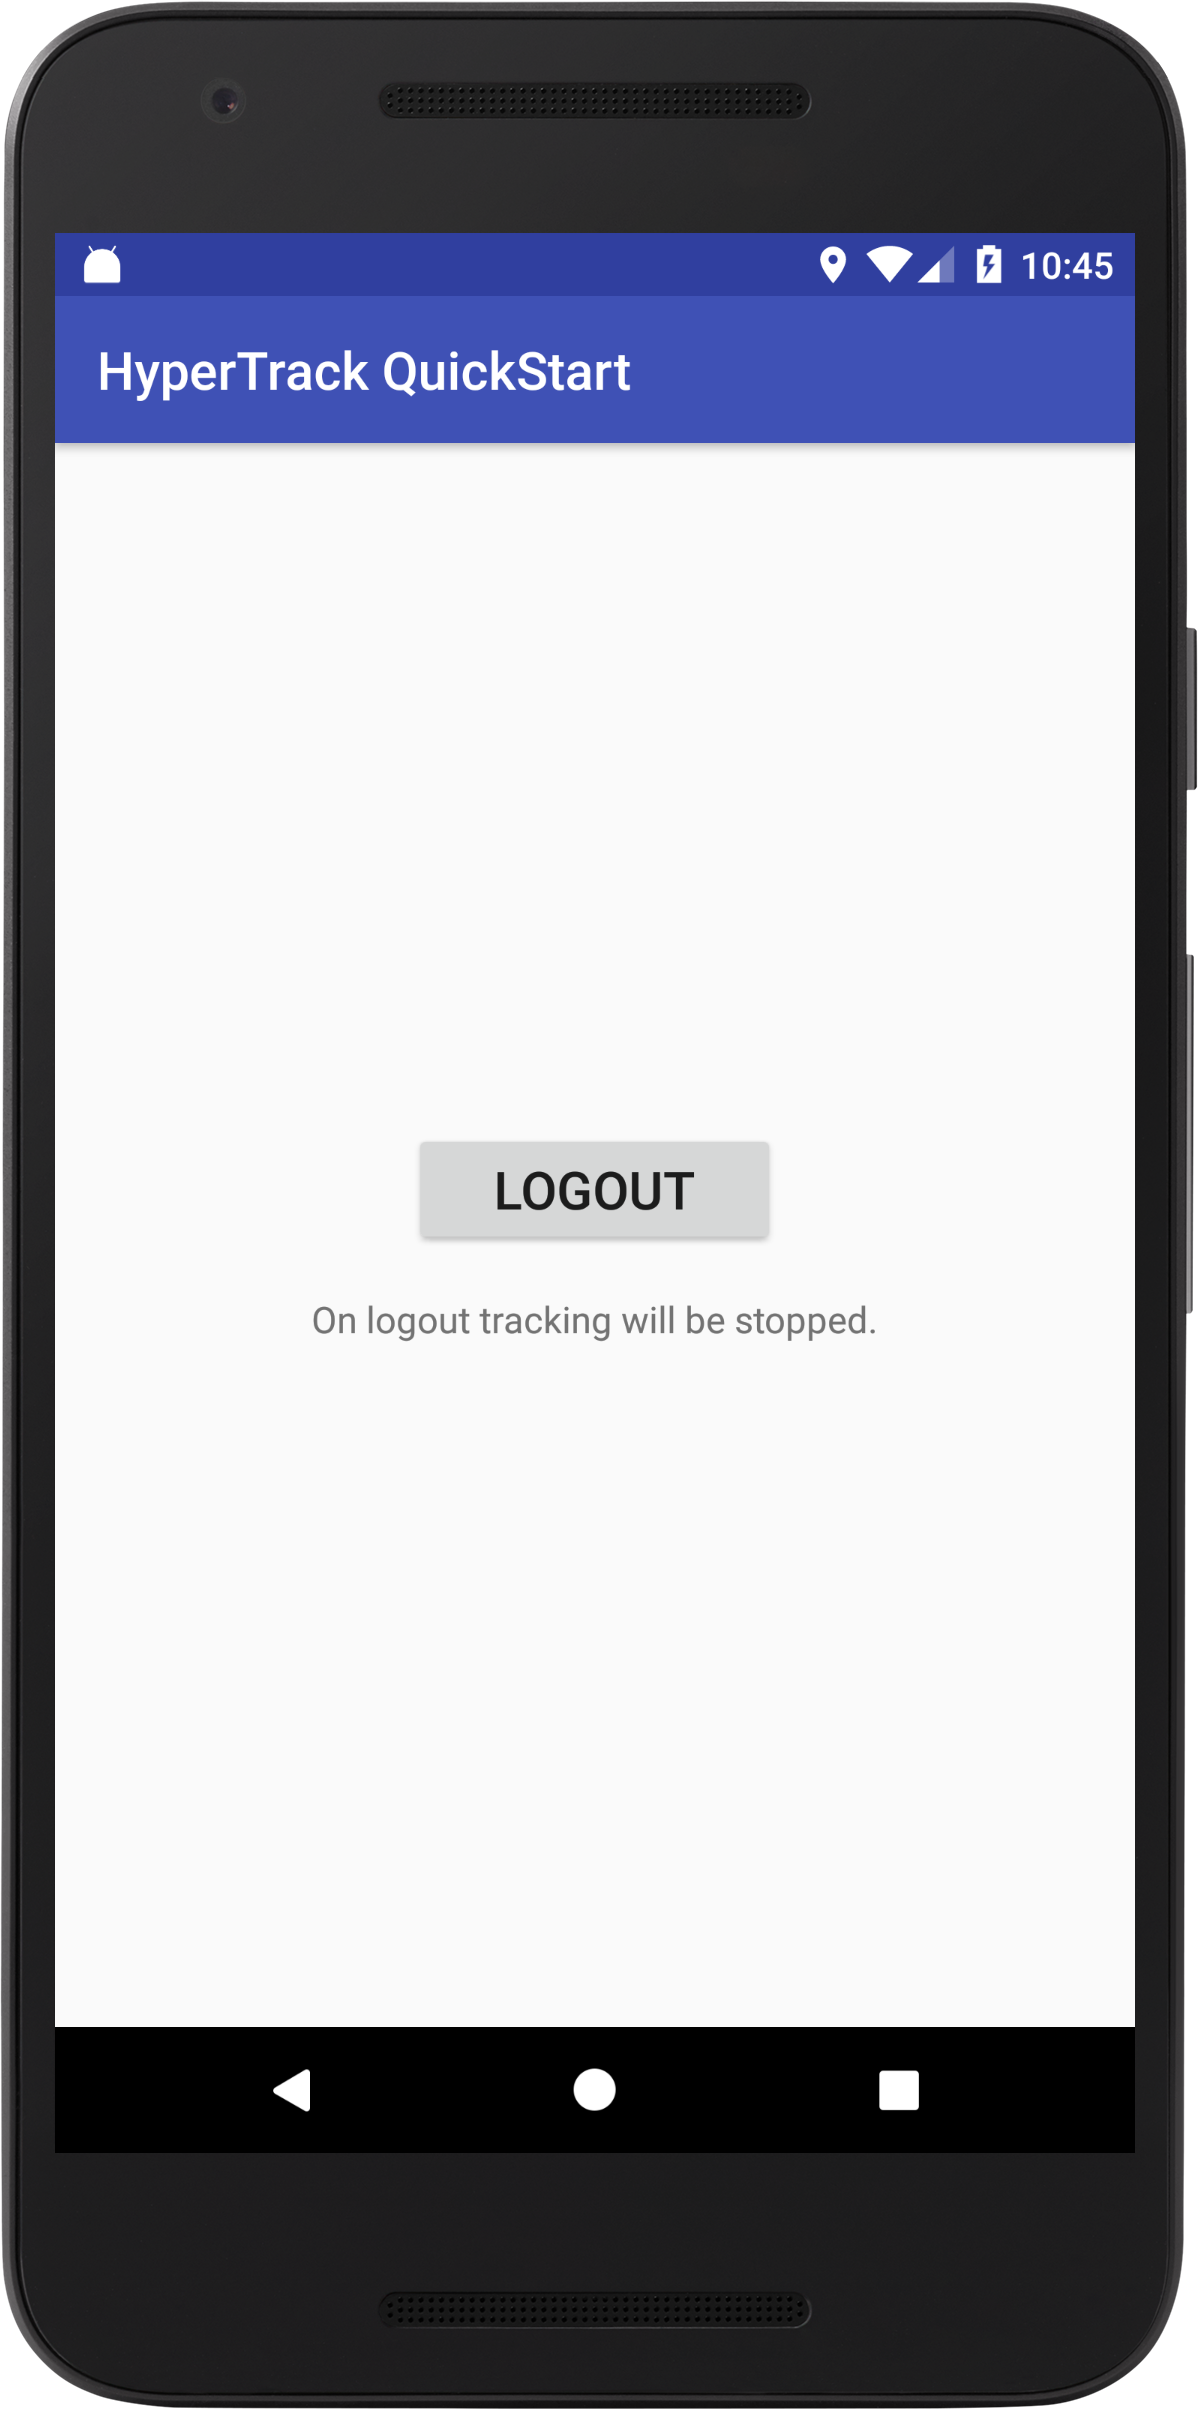
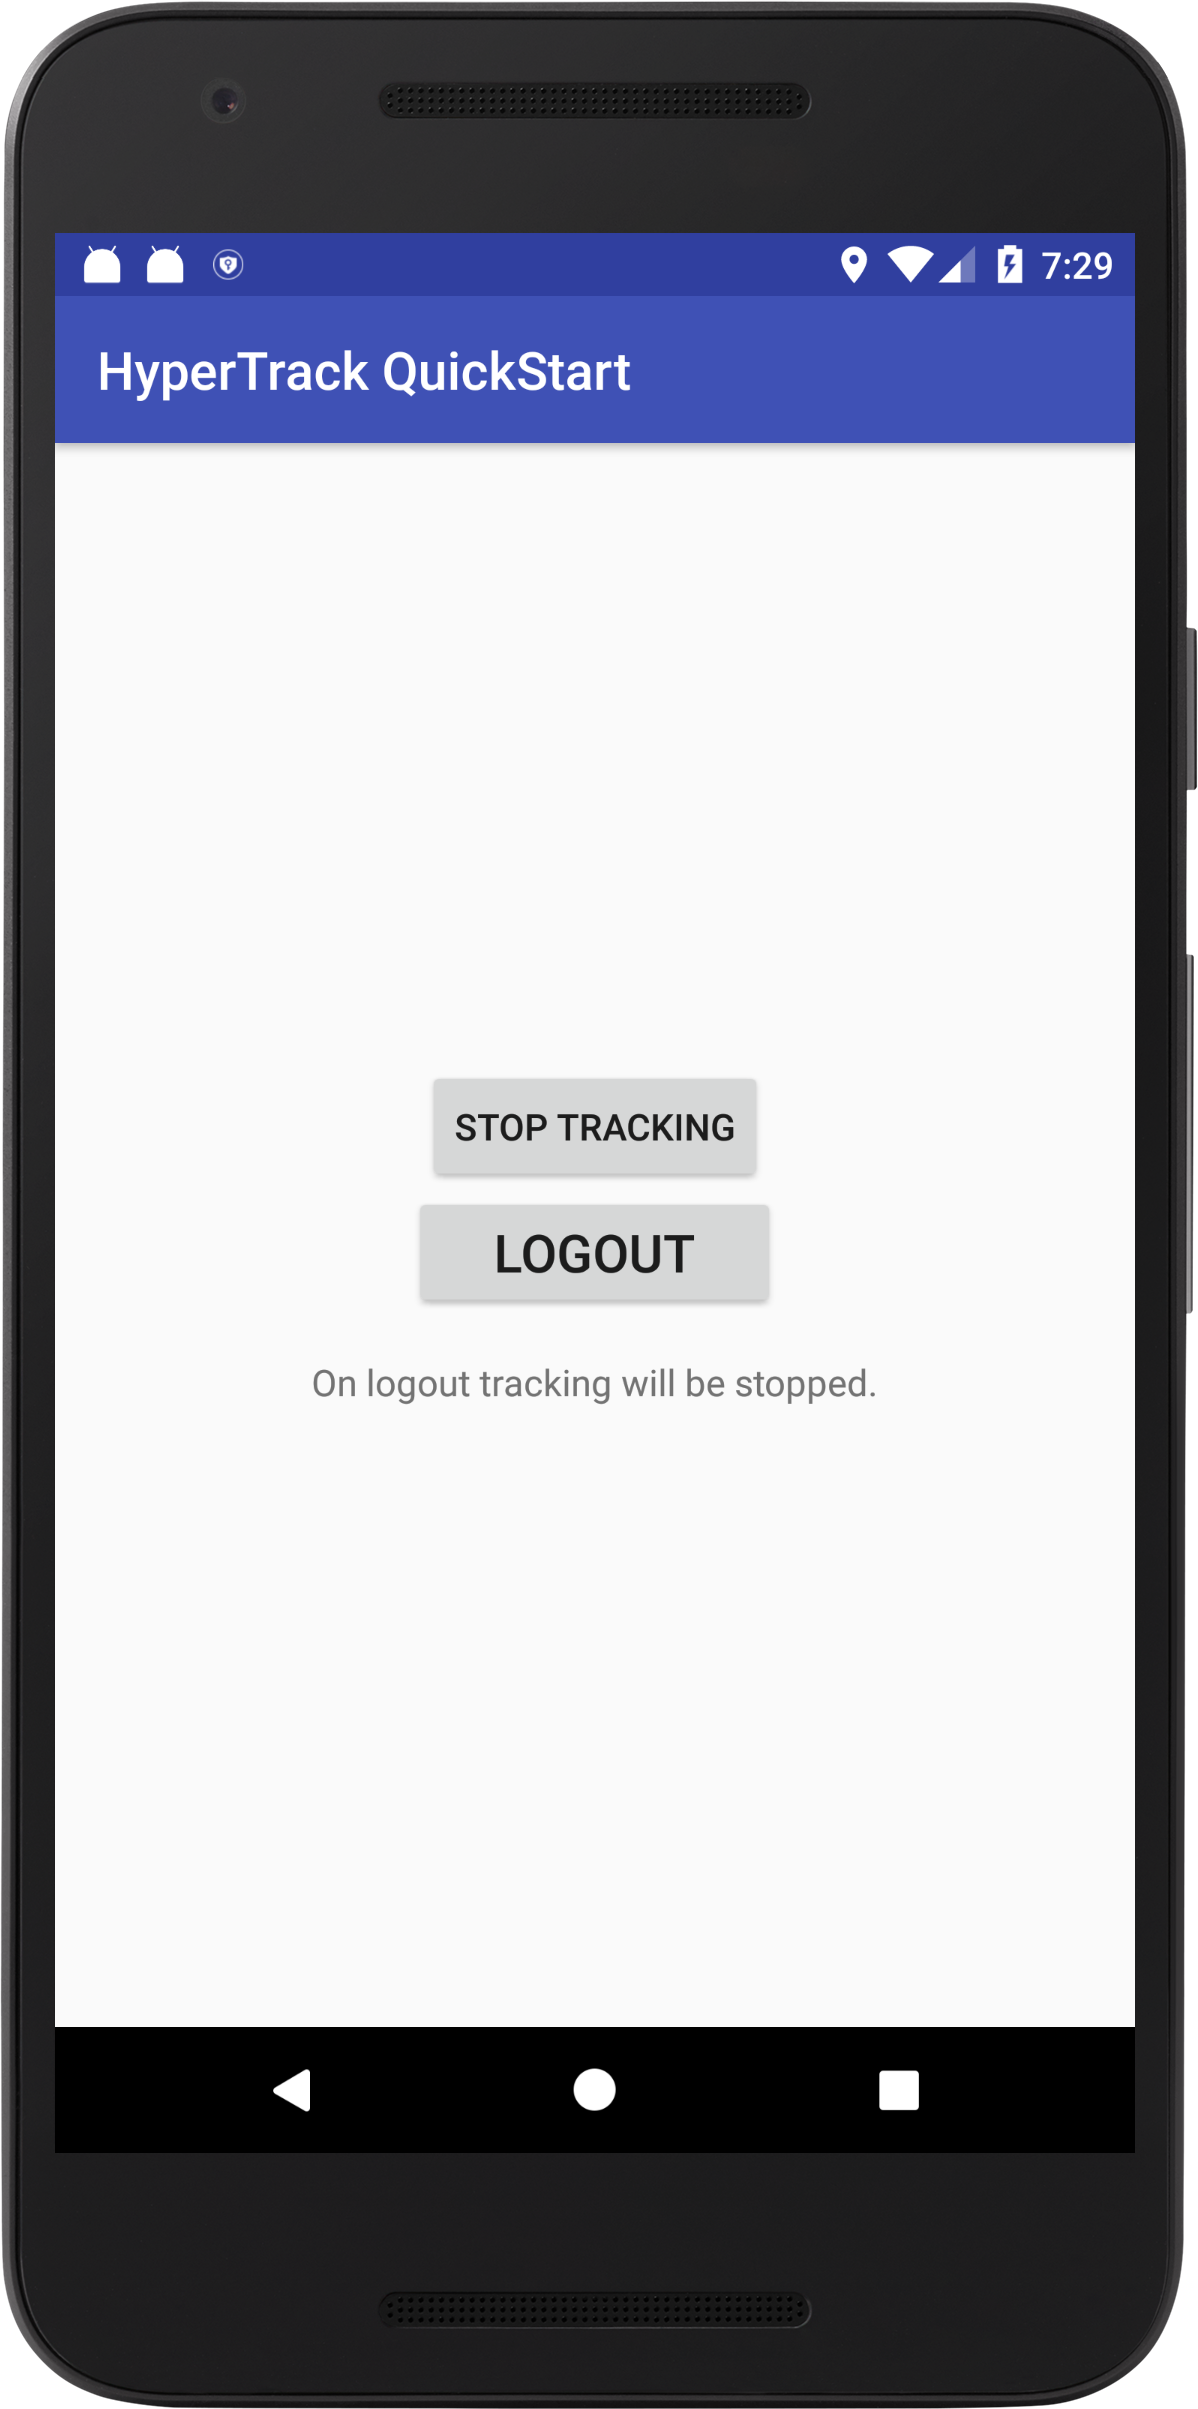
Adds Mock Tracking content

diff --git a/app/src/main/java/com/hypertrack/quickstart/MainActivity.java b/app/src/main/java/com/hypertrack/quickstart/MainActivity.java
@@ -1,12 +1,20 @@
 package com.hypertrack.quickstart;
 
+import android.content.Context;
 import android.content.Intent;
+import android.content.SharedPreferences;
 import android.os.Bundle;
+import android.support.annotation.NonNull;
 import android.view.View;
 import android.widget.Button;
 import android.widget.Toast;
 
 import com.hypertrack.lib.HyperTrack;
+import com.hypertrack.lib.callbacks.HyperTrackCallback;
+import com.hypertrack.lib.models.ErrorResponse;
+import com.hypertrack.lib.models.SuccessResponse;
+
+import static com.hypertrack.quickstart.LoginActivity.HT_QUICK_START_SHARED_PREFS_KEY;
 
 public class MainActivity extends BaseActivity {
 
@@ -27,6 +35,41 @@ public class MainActivity extends BaseActivity {
         // Initialize AssignAction Button
         Button logoutButton = (Button) findViewById(R.id.logout_btn);
         if (logoutButton != null) logoutButton.setOnClickListener(logoutButtonClickListener);
+        final Button trackingToggle = (Button) findViewById(R.id.tracking_toggle);
+        if (HyperTrack.isTracking())
+            trackingToggle.setText(R.string.stop_tracking);
+        trackingToggle.setOnClickListener(new View.OnClickListener() {
+            @Override
+            public void onClick(View v) {
+                if (HyperTrack.isTracking()) {
+                    HyperTrack.stopTracking(new HyperTrackCallback() {
+                        @Override
+                        public void onSuccess(@NonNull SuccessResponse successResponse) {
+                            trackingToggle.setText(R.string.start_tracking);
+
+                        }
+
+                        @Override
+                        public void onError(@NonNull ErrorResponse errorResponse) {
+                            Toast.makeText(MainActivity.this, errorResponse.getErrorMessage(), Toast.LENGTH_SHORT).show();
+                        }
+                    });
+                } else {
+                    HyperTrack.startTracking(new HyperTrackCallback() {
+                        @Override
+                        public void onSuccess(@NonNull SuccessResponse successResponse) {
+                            trackingToggle.setText(R.string.stop_tracking);
+
+                        }
+
+                        @Override
+                        public void onError(@NonNull ErrorResponse errorResponse) {
+                            Toast.makeText(MainActivity.this, errorResponse.getErrorMessage(), Toast.LENGTH_SHORT).show();
+                        }
+                    });
+                }
+            }
+        });
     }
 
     // Click Listener for AssignAction Button
@@ -39,6 +82,7 @@ public class MainActivity extends BaseActivity {
             // Stop HyperTrack SDK
             // Refer here for more detail https://docs.hypertrack.com/sdks/android/reference/hypertrack.html#void-stoptracking
             HyperTrack.stopTracking();
+            clearUser();
 
             // Proceed to LoginActivity for a fresh User Login
             Intent loginIntent = new Intent(MainActivity.this, LoginActivity.class);
@@ -47,4 +91,11 @@ public class MainActivity extends BaseActivity {
             finish();
         }
     };
+
+    public  void clearUser() {
+        SharedPreferences sharedPreferences = getSharedPreferences(HT_QUICK_START_SHARED_PREFS_KEY, Context.MODE_PRIVATE);
+        SharedPreferences.Editor editor = sharedPreferences.edit();
+        editor.clear();
+        editor.apply();
+    }
 }

diff --git a/app/src/main/java/com/hypertrack/quickstart/LoginActivity.java b/app/src/main/java/com/hypertrack/quickstart/LoginActivity.java
@@ -1,7 +1,9 @@
 package com.hypertrack.quickstart;
 
 import android.app.Activity;
+import android.content.Context;
 import android.content.Intent;
+import android.content.SharedPreferences;
 import android.content.pm.PackageManager;
 import android.os.Bundle;
 import android.provider.Settings;
@@ -12,6 +14,7 @@ import android.widget.EditText;
 import android.widget.LinearLayout;
 import android.widget.Toast;
 
+import com.google.gson.GsonBuilder;
 import com.hypertrack.lib.HyperTrack;
 import com.hypertrack.lib.callbacks.HyperTrackCallback;
 import com.hypertrack.lib.internal.common.util.HTTextUtils;
@@ -28,6 +31,7 @@ public class LoginActivity extends BaseActivity {
 
     private EditText nameText, phoneNumberText, lookupIdText;
     private LinearLayout loginBtnLoader;
+    public static final String HT_QUICK_START_SHARED_PREFS_KEY = "com.hypertrack.quickstart:SharedPreference";
 
     @Override
     protected void onCreate(@Nullable Bundle savedInstanceState) {
@@ -36,7 +40,7 @@ public class LoginActivity extends BaseActivity {
         setContentView(R.layout.activity_login);
 
         // Check if user is logged in
-        if (HyperTrack.isTracking()) {
+        if (getUser() != null) {
             Intent mainActivityIntent = new Intent(this, MainActivity.class);
             startActivity(mainActivityIntent);
             finish();
@@ -139,6 +143,7 @@ public class LoginActivity extends BaseActivity {
                 loginBtnLoader.setVisibility(View.GONE);
 
                 User user = (User) successResponse.getResponseObject();
+                saveUser(user);
                 String userId = user.getId();
                 // Handle createUser success here, if required
                 // HyperTrack SDK auto-configures UserId on createUser API call,
@@ -233,4 +238,30 @@ public class LoginActivity extends BaseActivity {
             }
         }
     }
+
+    private void saveUser(User user) {
+        SharedPreferences sharedPreferences = getSharedPreferences(HT_QUICK_START_SHARED_PREFS_KEY, Context.MODE_PRIVATE);
+        SharedPreferences.Editor editor = sharedPreferences.edit();
+        editor.putString("user", new GsonBuilder().create().toJson(user));
+        editor.apply();
+    }
+
+    private User getUser() {
+        SharedPreferences sharedPreferences = getSharedPreferences(HT_QUICK_START_SHARED_PREFS_KEY, Context.MODE_PRIVATE);
+        String jsonString = sharedPreferences.getString("user", "null");
+        if (HTTextUtils.isEmpty(jsonString)) {
+            return null;
+        }
+        User user = null;
+        try {
+
+            user = new GsonBuilder().create().fromJson(jsonString, User.class);
+        } catch (Exception e) {
+            return null;
+        }
+
+        return user;
+    }
+
+
 }

diff --git a/app/src/main/java/com/hypertrack/quickstart/MyApplication.java b/app/src/main/java/com/hypertrack/quickstart/MyApplication.java
@@ -20,6 +20,6 @@ public class MyApplication extends Application {
         // https://docs.hypertrack.com/gettingstarted/authentication.html
         // @NOTE: Add **YOUR_PUBLISHABLE_KEY_HERE** here for SDK to be
         // authenticated with HyperTrack Server
-        HyperTrack.initialize(this, TEST_PUBLISHABLE_KEY);
+        HyperTrack.initialize(this, "pk_test_2d9865a43acc427636b85540cbaadfdd94b12214");
     }
 }

diff --git a/README.md b/README.md
@@ -1,5 +1,5 @@
 # Sample Android App using HyperTrack SDK
-A simple Android application demonstrating the use of HyperTrack SDK.
+A sample Android application demonstrating the use of HyperTrack SDK.
 
 <p>
 <img src="assets/login_activity.png" alt="Login Activity" width="250" height="480">
@@ -35,7 +35,13 @@ HyperTrack.initialize(this.getApplicationContext(), BuildConfig.HYPERTRACK_PK);
 #### Step 3. FCM Integration
 The SDK has a bi-directional communication model with the server. This enables the SDK to run on a variable frequency model, which balances the fine trade-off between low latency tracking and battery efficiency, and improve robustness. For this purpose, the Android SDK uses FCM or GCM silent notifications. 
 
-Refer to the [FCM Integration guide](https://docs.hypertrack.com/sdks/android/gcm-integration.html#locate-your-gcmfcm-key). 
+By default, project is configured with test `google-service.json` credentials.
+
+You need to add FCM Server Key `AAAAckZ1H20:APA91bEyilv0qgVyfSECb-jZxsgetGyKyJGVIavCOLhWn5GdI0aQBz76dPKAf5P73fVBE7OXoS5QicAV5ASrmcyhizGnNbD0DhwJPVSZaLKQrRGYH3Bam-7WGe3OEX_Chhf7CEPToVw0` on HyperTrack [dashboard settings page](https://dashboard.hypertrack.com/settings).
+
+**Note:**
+But if you want to use your FCM configuration then replace `FCM Server Key` on HyperTrack [dashboard settings page](https://dashboard.hypertrack.com/settings) with yours FCM server key and replace
+[google-service.json](https://github.com/hypertrack/quickstart-android/blob/master/app/google-services.json) .
 
 ## Usage
 
@@ -103,6 +109,16 @@ When user logs out call `HyperTracking.stopTracking()` to stop tracking the user
 
 ```java
 HyperTrack.stopTracking();
+```
+
+## Testing (Mocking user Location)
+A user’s tracking session starts with HyperTrack.startTracking() and ends with HyperTrack.stopTracking(). In order to mock user movement developers would call `HyperTrack.startMockTracking()` and `HyperTrack.stopMockTracking()` respectively.
+
+[`HyperTrack.startMockTracking()`](https://docs.hypertrack.com/sdks/android/reference/hypertrack.html#void-startmocktracking) API starts a simulation from the device's current location to a nearby place of interest within a 5-10km radius so the session is long enough to test your app & its features.
+
+Developer can simulate user's location to a particular destination location from a given source location.
+```
+public static void startMockTracking(@NonNull LatLng sourceLatLng, @NonNull LatLng destinationLatLng, @Nullable HyperTrackCallback callback);
 ```
 
 ## Documentation
